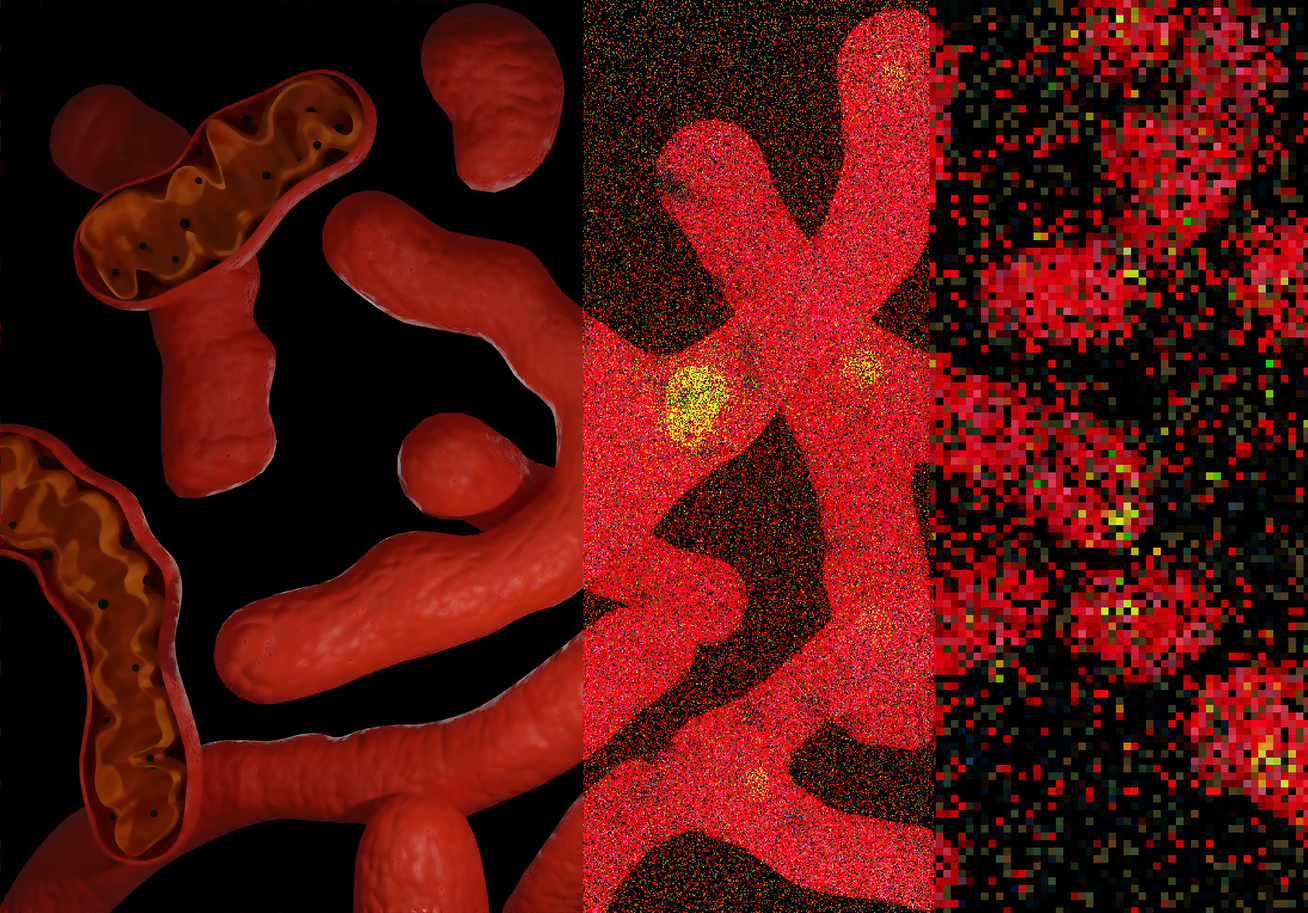
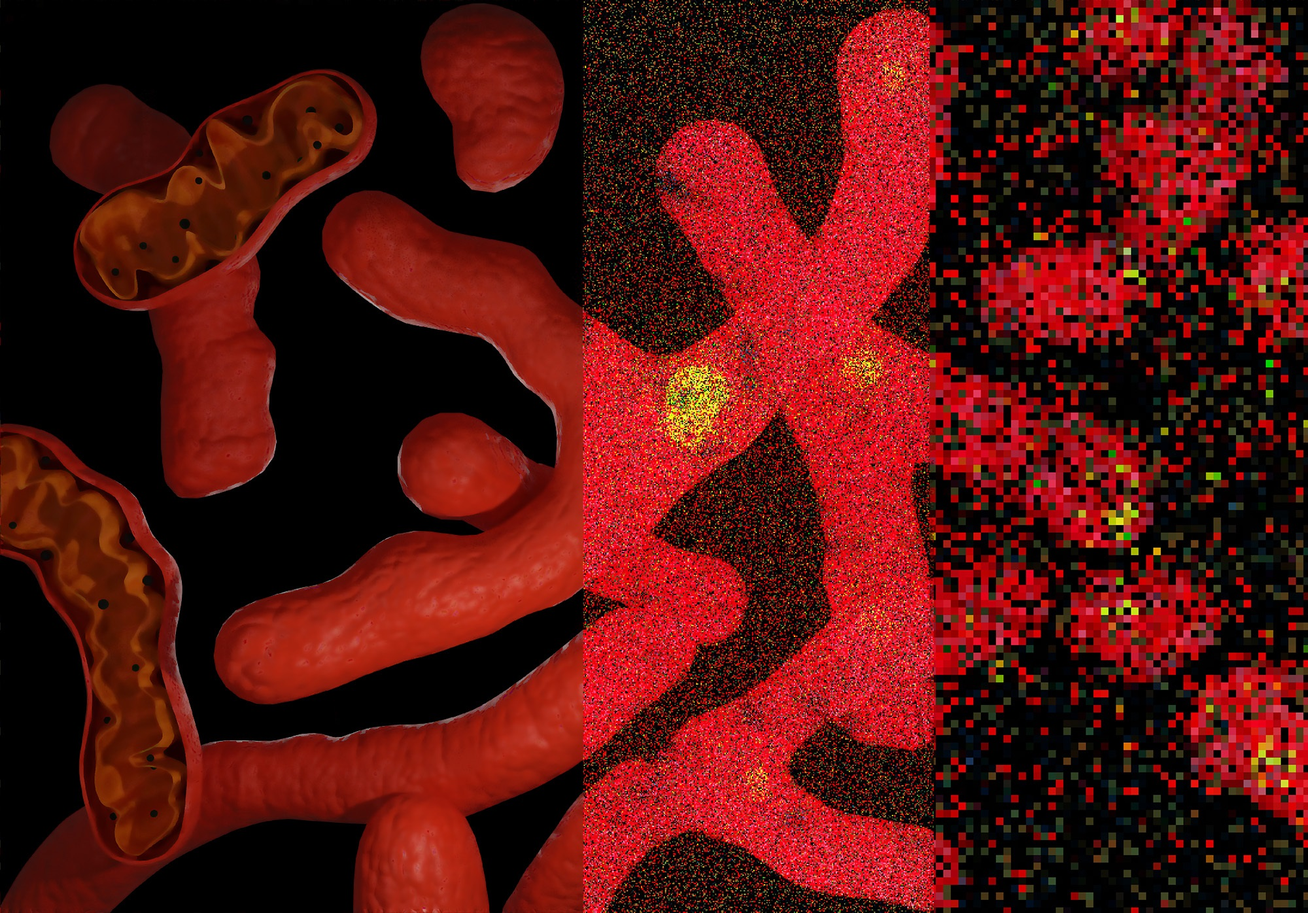
second real update of the website

diff --git a/index.html b/index.html
@@ -45,7 +45,7 @@ layout: default
                     <p class="mb-0">Quantum control</p>
                   </span>
                 </span>
-                <img class="img-fluid" src="{{ site.baseurl }}/assets/img/quad_title.png" alt="">
+                <img class="img-fluid" src="{{ site.baseurl }}/assets/img/quad_title.jpg" alt="">
               </a>
             </div>
             <div class="col-lg-6">
@@ -56,7 +56,7 @@ layout: default
                     <p class="mb-0">Quantum sensing</p>
                   </span>
                 </span>
-                <img class="img-fluid" src="{{ site.baseurl }}/assets/img/nano_title.png" alt="">
+                <img class="img-fluid" src="{{ site.baseurl }}/assets/img/nano_title.jpg" alt="">
               </a>
             </div>
             <div class="col-lg-6">
@@ -67,7 +67,7 @@ layout: default
                     <p class="mb-0">Artificial prions</p>
                   </span>
                 </span>
-                <img class="img-fluid" src="{{ site.baseurl }}/assets/img/prions_title.png" alt="">
+                <img class="img-fluid" src="{{ site.baseurl }}/assets/img/prions_title.jpg" alt="">
               </a>
             </div>
             <div class="col-lg-6">

diff --git a/supersymmetry.html b/supersymmetry.html
@@ -67,7 +67,7 @@ layout: project
 
 
 <!-- Footer Masthead -->
-<footer class="masthead" style="background-image: url('{{ site.baseurl }}/assets/img/screw.png'); background-size: cover; height: 200px;">
+<footer class="masthead" style="background-image: url('{{ site.baseurl }}/assets/img/screw.jpg'); background-size: cover; height: 200px;">
     <div class="container text-center text-white d-flex align-items-center justify-content-center" style="height: 100%;"></div>
 </footer>
 
